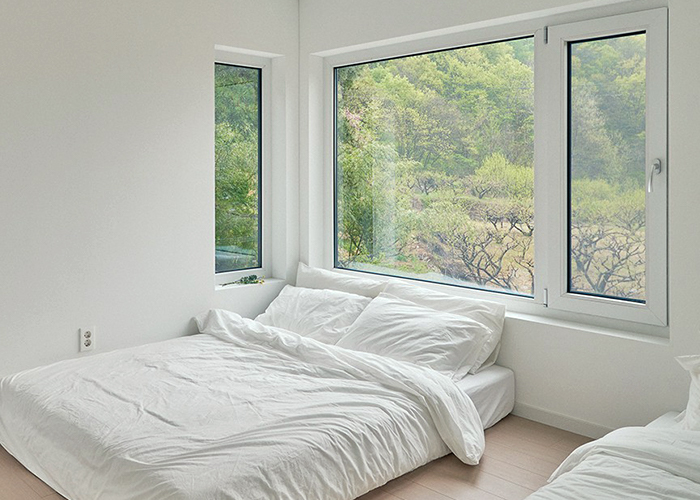
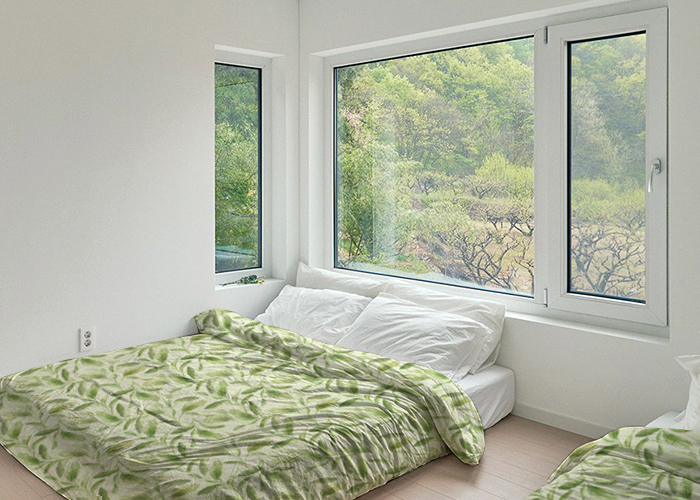
Add files via upload

Changed region(s): [[0.0, 0.6, 0.69, 1.0], [0.75, 0.84, 1.0, 1.0]]

diff --git a/index.html b/index.html
@@ -384,10 +384,10 @@
                     </div>
 
                     <div class="sec2_slide">
-                        <img src="images/images1.jpeg" alt="con4 상품5"> <!--상품5-->
+                        <img src="images/con4_slide7.jpg" alt="con4 상품5"> <!--상품5-->
                         <div class="food"> <!--상품 이름 s-->
                             <p>
-                              <a href="#">Magnolia Poly curtain</a>
+                              <a href="#">Green Waterproof tablecloth</a>
                             </p>
                             <div class="con1_cart"> <!--장바구니 wrap s-->
                               <a href="#">
@@ -399,10 +399,10 @@
                     </div>
 
                     <div class="sec2_slide">
-                        <img src="images/images1.jpeg" alt="con4 상품6"> <!--상품6-->
+                        <img src="images/con4_slide5.jpg" alt="con4 상품6"> <!--상품6-->
                         <div class="food"> <!--상품 이름 s-->
                             <p>
-                              <a href="#">Magnolia Poly curtain</a>
+                              <a href="#">Green Circle Organic rug</a>
                             </p>
                             <div class="con1_cart"> <!--장바구니 wrap s-->
                               <a href="#">

diff --git a/css/style.css b/css/style.css
@@ -693,7 +693,7 @@ body{
 .con3_pattern2{ /*Greenery 패턴 이미지*/
   width: 100%;
   height: 130px;
-  background: url(../images/con3_pattern.jpg) no-repeat left -300px;
+  background: url(../images/con3_pattern2.jpg) no-repeat left -300px;
   border-radius: 0 65px 0 65px;
   animation: infinite 12s linear infinite alternate; /*배경 이미지 계속 움직이게*/
 
